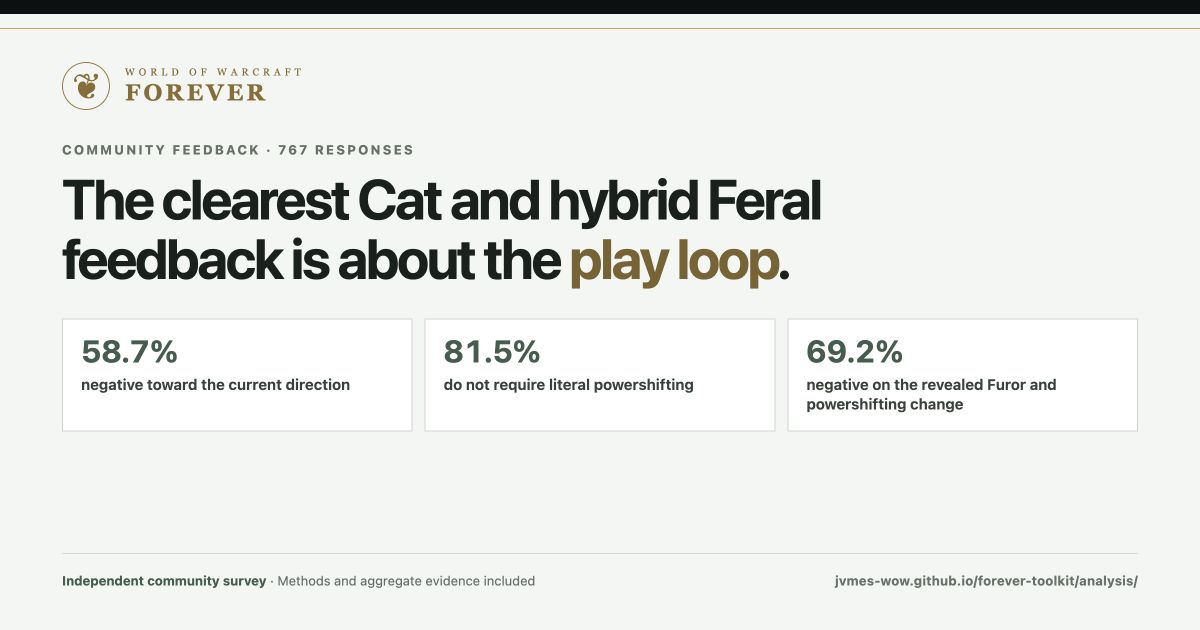
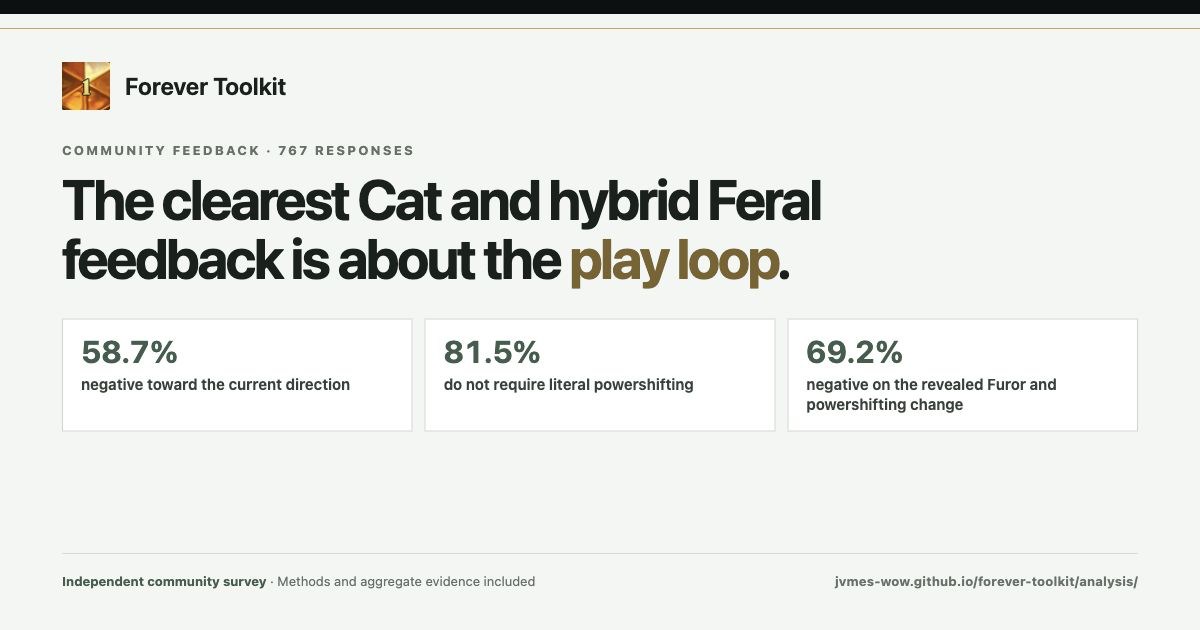
Simplify home and unify Forever Toolkit branding

diff --git a/home.css b/home.css
@@ -1,10 +1,7 @@
-:root{color-scheme:dark;font-family:system-ui,-apple-system,BlinkMacSystemFont,"Segoe UI",sans-serif;color:#e9eddf;background:#0b1010;--gold:#d8b875;--muted:#a5b0a5;--line:#ffffff18}
-*{box-sizing:border-box}body{margin:0}a{color:inherit}a:focus-visible{outline:3px solid #e2c584;outline-offset:5px}.skip-link{position:absolute;top:-100px;left:16px;z-index:10;background:#e2c584;color:#101810;padding:12px}.skip-link:focus{top:12px}
-.topbar{min-height:78px;max-width:1340px;margin:auto;padding:0 40px;display:flex;align-items:center;gap:40px;border-bottom:1px solid var(--line)}.brand{display:flex;align-items:center;gap:11px;color:var(--gold);text-decoration:none;flex-shrink:0}.crest{width:38px;height:38px;border:1px solid #9c8049;border-radius:50%;display:grid;place-items:center;font:30px Georgia,serif}.brand small,.brand strong{display:block;font-family:Georgia,serif}.brand small{font-size:8px;letter-spacing:1.6px}.brand strong{font-size:20px;letter-spacing:2px}.topbar nav{display:flex;gap:22px;align-items:center}.topbar nav a{display:flex;align-items:center;min-height:78px;color:var(--muted);text-decoration:none;font-size:13px;border-bottom:2px solid transparent}.topbar nav a:hover,.topbar nav a[aria-current]{color:#f0dfad;border-color:var(--gold)}.byline{margin-left:auto;color:#87958b;font-size:11px}.byline strong{color:#bfc8b9;font-weight:500}
-main{max-width:1200px;margin:auto;padding:0 40px}.hero{padding:80px 0 70px;position:relative}.eyebrow{margin:0 0 21px;color:var(--gold);font-size:10px;letter-spacing:2.2px;font-weight:650}.hero h1{margin:0;font:400 clamp(42px,5.4vw,68px)/1.08 Georgia,serif;letter-spacing:-1.6px}.hero h1 em{color:var(--gold);font-style:normal}.intro{max-width:540px;font-size:16px;line-height:1.75;color:var(--muted);margin:24px 0 28px}.primary-link{display:inline-flex;align-items:center;gap:28px;background:#dfc48b;color:#111a13;padding:14px 19px;border-radius:4px;text-decoration:none;font-size:13px;font-weight:700}.primary-link:hover{background:#efdaaa}.hero-note{color:#839486;font-size:11px;margin-left:20px}
-.section-heading{display:flex;align-items:baseline;justify-content:space-between;gap:16px;margin-bottom:18px}.section-heading h2{margin:0;font:400 23px Georgia,serif}.section-heading>span{color:#89998d;font-size:11px}.tool-grid{display:grid;grid-template-columns:repeat(3,minmax(0,1fr));gap:16px}.tool-card{display:flex;flex-direction:column;padding:25px;background:#101a15;border:1px solid #314136;border-radius:6px;text-decoration:none;transition:background .15s,border-color .15s}.tool-card:hover{background:#17251d;border-color:#a98b51}.card-top{display:flex;align-items:center;justify-content:space-between;gap:14px;margin-bottom:23px}.card-top img{border-radius:7px;border:1px solid #7a704c}.card-number{color:#8f9d8f;font-size:9px;letter-spacing:1.2px}.tool-card h3{margin:0;font:400 25px Georgia,serif;color:#ebe6d0}.tool-card p{font-size:13px;line-height:1.75;color:var(--muted);margin:12px 0 27px}.card-action{margin-top:auto;display:flex;justify-content:space-between;color:var(--gold);font-size:12px;font-weight:600}
-.research{display:grid;grid-template-columns:1.45fr 1fr;border-top:1px solid var(--line);border-bottom:1px solid var(--line);margin-top:52px;padding:42px 0;gap:70px}.research .eyebrow{margin-bottom:16px}.research h2{font:400 36px/1.14 Georgia,serif;margin:0;color:#ebe6d0;letter-spacing:-.4px}.research-copy>p:not(.eyebrow){color:var(--muted);font-size:13px;line-height:1.8;max-width:520px;margin:18px 0}.text-link{display:inline-flex;gap:22px;color:var(--gold);font-size:13px;text-underline-offset:5px}.survey-snapshot{border-left:1px solid var(--line);padding:10px 0 0 60px;display:flex;flex-direction:column;justify-content:center}.snapshot-label{font-size:9px;letter-spacing:1.6px;color:#92a696}.survey-snapshot strong{font:400 74px/1.1 Georgia,serif;color:#b4cda5;margin:16px 0 4px}.survey-snapshot>span:not(.snapshot-label){color:#d1d8c7;font-size:13px}.snapshot-rule{height:1px;background:#304836;margin-top:23px;max-width:230px}.survey-snapshot p{font-size:11px;line-height:1.8;color:#98a894}
-.in-development{display:flex;align-items:flex-start;gap:18px;padding:30px 0 46px}.development-mark{font-size:30px;line-height:1;color:#97aa92}.development-title{display:flex;align-items:center;gap:14px;flex-wrap:wrap}.development-title h2{font:400 20px Georgia,serif;margin:0}.status-badge{border:1px solid #6e67494d;background:#aaa0710a;color:#c5b68a;font-size:10px;border-radius:4px;padding:4px 7px}.in-development p{font-size:12px;line-height:1.7;color:#94a18f;margin:9px 0 0}.page-foot{max-width:1340px;margin:auto;padding:24px 40px 30px;border-top:1px solid var(--line);display:flex;justify-content:space-between;gap:20px;font-size:10px;line-height:1.7;color:#88968c}
-@media(max-width:1000px){.byline{display:none}.topbar{gap:32px}.tool-card{padding:20px}.card-number{font-size:8px}.research{gap:30px}.survey-snapshot{padding-left:35px}}
-@media(max-width:700px){.topbar{padding:17px 22px 0;gap:12px;flex-wrap:wrap}.topbar nav{width:100%;justify-content:space-between;gap:12px}.topbar nav a{min-height:45px;font-size:12px}main{padding:0 22px}.hero{padding:48px 0 44px}.hero h1{font-size:46px}.hero-note{display:block;margin:16px 0 0}.intro{font-size:14px;max-width:420px}.section-heading{align-items:flex-start;flex-direction:column;gap:8px}.tool-grid{grid-template-columns:1fr;gap:12px}.tool-card{padding:23px}.card-top{margin-bottom:17px}.card-number{font-size:9px}.tool-card p{margin:10px 0 21px}.research{margin-top:38px;grid-template-columns:1fr;gap:28px;padding:32px 0}.research h2{font-size:32px}.survey-snapshot{border-left:0;border-top:1px solid var(--line);padding:22px 0 0}.survey-snapshot strong{font-size:60px;margin-top:13px}.snapshot-rule{display:none}.survey-snapshot p{margin:12px 0 0}.in-development{padding:26px 0 32px}.development-title{gap:10px}.page-foot{padding:22px;flex-direction:column;gap:7px}}
-@media(prefers-reduced-motion:reduce){.tool-card{transition:none}}
+:root{color-scheme:dark;font-family:system-ui,-apple-system,BlinkMacSystemFont,"Segoe UI",sans-serif;color:#e8edf4;background:#0c1017;--accent:#eea45e;--muted:#94a2b6;--line:#ffffff12}
+*{box-sizing:border-box}body{margin:0;min-height:100vh}a{color:inherit}a:focus-visible{outline:2px solid var(--accent);outline-offset:5px}.skip-link{position:absolute;top:-100px;left:16px;z-index:10;background:var(--accent);color:#0c1017;padding:12px}.skip-link:focus{top:12px}
+.topbar{min-height:72px;padding:0 max(24px,calc((100vw - 1100px)/2));display:flex;align-items:center;gap:48px;background:#11161e;border-bottom:1px solid var(--line)}.topbar nav{display:flex;gap:24px;margin-left:auto}.topbar nav a{display:flex;align-items:center;min-height:72px;color:#a5afbe;text-decoration:none;font-size:13px;border-bottom:2px solid transparent}.topbar nav a:hover,.topbar nav a[aria-current]{color:#f6b57a;border-color:var(--accent)}
+main{max-width:1148px;margin:0 auto;padding:48px 24px 0}h1{font-size:24px;font-weight:650;letter-spacing:-.5px;margin:0 0 22px}.tool-grid{display:grid;grid-template-columns:repeat(2,minmax(0,1fr));gap:16px}.tool-card{display:flex;align-items:center;gap:18px;min-height:132px;padding:26px;background:#151b25;border:1px solid #ffffff14;border-radius:8px;text-decoration:none}.tool-card:hover{background:#1c2634;border-color:#eea45e80}.tool-card>img{border-radius:6px;border:1px solid #4b5565;flex-shrink:0}.tool-card>div{min-width:0}.tool-card h2{font-size:17px;font-weight:600;margin:0 0 8px}.tool-card p{font-size:12px;line-height:1.6;color:var(--muted);margin:0}.arrow{margin-left:auto;color:#eea45e;font-size:19px;padding-left:8px}
+.sim-status{display:flex;align-items:center;gap:18px;margin:24px 0 48px;padding:18px 22px;border:1px solid #ffffff12;border-radius:6px;background:#11161e}.sim-status h2{font-size:14px;font-weight:550;margin:0;color:#c3cbd7}.sim-status span{color:#dca76e;font-size:11px}.page-foot{max-width:1100px;margin:0 auto;padding:20px 0;border-top:1px solid var(--line);display:flex;justify-content:space-between;gap:16px;color:#8293a9;font-size:10px}
+@media(max-width:800px){.topbar{padding:15px 24px 0;flex-wrap:wrap;gap:8px}.topbar nav{width:100%;margin:0;justify-content:space-between;gap:12px}.topbar nav a{min-height:45px;font-size:12px}.page-foot{margin:0 24px}}
+@media(max-width:700px){main{padding:30px 20px 0}h1{font-size:22px;margin-bottom:18px}.tool-grid{grid-template-columns:1fr;gap:12px}.tool-card{min-height:116px;padding:20px;gap:15px}.tool-card h2{font-size:16px}.arrow{padding:0}.sim-status{margin:20px 0 32px;padding:18px;flex-wrap:wrap;gap:8px 16px}.page-foot{margin:0 20px;flex-wrap:wrap;gap:8px}}

diff --git a/index.html b/index.html
@@ -3,65 +3,38 @@
 <head>
   <meta charset="utf-8">
   <meta name="viewport" content="width=device-width,initial-scale=1">
-  <title>WoW Forever Toolkit</title>
-  <meta name="description" content="Talent builds, Druid abilities, raid planning, and Feral community research for World of Warcraft: Forever. A community project by JVMES.">
+  <title>Forever Toolkit</title>
+  <meta name="description" content="WoW Forever talent calculators, Druid abilities, raid planner, and Feral survey analysis.">
   <link rel="canonical" href="https://jvmes-wow.github.io/forever-toolkit/">
   <meta property="og:type" content="website">
-  <meta property="og:site_name" content="WoW Forever Toolkit">
-  <meta property="og:title" content="WoW Forever Toolkit">
-  <meta property="og:description" content="Plan a build, put a raid together, and explore the Feral community's feedback.">
+  <meta property="og:site_name" content="Forever Toolkit">
+  <meta property="og:title" content="Forever Toolkit">
+  <meta property="og:description" content="Talent calculators, Druid abilities, raid planner, and Feral survey analysis.">
   <meta property="og:url" content="https://jvmes-wow.github.io/forever-toolkit/">
+  <meta property="og:image" content="https://jvmes-wow.github.io/forever-toolkit/toolkit-logo.png">
   <meta name="twitter:card" content="summary">
-  <meta name="theme-color" content="#0b1010">
+  <meta name="theme-color" content="#11161e">
+  <link rel="icon" type="image/png" href="toolkit-logo.png">
   <link rel="stylesheet" href="home.css">
+  <link rel="stylesheet" href="site-brand.css">
   <script src="home.js"></script>
 </head>
 <body>
   <a class="skip-link" href="#main">Skip to content</a>
   <header class="topbar">
-    <a class="brand" href="./" aria-label="Forever Toolkit home"><span class="crest" aria-hidden="true">❦</span><span><small>WORLD OF WARCRAFT</small><strong>FOREVER</strong></span></a>
+    <a class="brand toolkit-brand" href="./" aria-label="Forever Toolkit home"><img src="toolkit-logo.png" width="40" height="40" alt=""><strong>Forever Toolkit</strong></a>
     <nav aria-label="Main navigation"><a href="./" aria-current="page">Home</a><a href="talents.html">Talents</a><a href="abilities.html">Abilities</a><a href="raid.html">Raid</a><a href="analysis/">Analysis</a></nav>
-    <span class="byline">A community project by <strong>JVMES</strong></span>
   </header>
   <main id="main">
-    <section class="hero" aria-labelledby="home-title">
-      <p class="eyebrow">THE FOREVER TOOLKIT</p>
-      <h1 id="home-title">Plan your build.<br><em>Know your options.</em></h1>
-      <p class="intro">A home for character tools, raid planning, and community research in World of Warcraft: Forever.</p>
-      <a class="primary-link" href="talents.html">Build your talents <span aria-hidden="true">↗</span></a>
-      <span class="hero-note">Made for players. Built by JVMES.</span>
-    </section>
-
-    <section class="tools" aria-labelledby="tools-title">
-      <div class="section-heading"><h2 id="tools-title">The tools</h2><span>Open in your browser. No account needed.</span></div>
-      <div class="tool-grid">
-        <a class="tool-card" href="talents.html">
-          <div class="card-top"><img src="class-icons/druid.jpg" width="46" height="46" alt=""><span class="card-number">01 / CHARACTER</span></div>
-          <h3>Talent calculator</h3><p>Find your build across all nine classes. Move points, save your choices, and share a build.</p>
-          <span class="card-action">Plan a build <span aria-hidden="true">↗</span></span>
-        </a>
-        <a class="tool-card" href="abilities.html">
-          <div class="card-top"><img src="icons/druid/feral-combat.jpg" width="46" height="46" alt=""><span class="card-number">02 / SPELLBOOK</span></div>
-          <h3>Druid abilities</h3><p>Explore spells, ranks, and unlock levels. See what changes as your Druid grows.</p>
-          <span class="card-action">Open the spellbook <span aria-hidden="true">↗</span></span>
-        </a>
-        <a class="tool-card" href="raid.html">
-          <div class="card-top"><img src="class-icons/warrior.jpg" width="46" height="46" alt=""><span class="card-number">03 / GROUPS</span></div>
-          <h3>Raid planner</h3><p>Build your roster and check buff coverage, party effects, and the gaps worth filling.</p>
-          <span class="card-action">Put a raid together <span aria-hidden="true">↗</span></span>
-        </a>
-      </div>
-    </section>
-
-    <section class="research" aria-labelledby="research-title">
-      <div class="research-copy"><p class="eyebrow">FROM THE COMMUNITY</p><h2 id="research-title">What makes Feral<br>feel like Feral?</h2><p>A closer look at the play loop, powershifting, and what players want to preserve. The original survey report, with charts, methods, and aggregate downloads.</p><a class="text-link" href="analysis/">Read the Feral analysis <span aria-hidden="true">↗</span></a></div>
-      <div class="survey-snapshot"><span class="snapshot-label">THE SEPTEMBER SNAPSHOT</span><strong>767</strong><span>community responses</span><div class="snapshot-rule"></div><p>September 20–21, 2026<br>A self-selected sample, not a vote by all players.</p></div>
-    </section>
-
-    <section class="in-development" aria-labelledby="sim-title">
-      <div class="development-mark" aria-hidden="true">⌁</div><div><div class="development-title"><h2 id="sim-title">Feral simulator</h2><span class="status-badge">Private · Work in progress</span></div><p>An experimental damage and rotation simulator. Still being developed and validated; no public link is provided here.</p></div>
-    </section>
+    <h1>Tools</h1>
+    <div class="tool-grid">
+      <a class="tool-card" href="talents.html"><img src="class-icons/druid.jpg" width="44" height="44" alt=""><div><h2>Talent calculator</h2><p>Builds for all nine classes.</p></div><span class="arrow" aria-hidden="true">↗</span></a>
+      <a class="tool-card" href="abilities.html"><img src="icons/druid/feral-combat.jpg" width="44" height="44" alt=""><div><h2>Druid abilities</h2><p>Spells and ranks by level.</p></div><span class="arrow" aria-hidden="true">↗</span></a>
+      <a class="tool-card" href="raid.html"><img src="class-icons/warrior.jpg" width="44" height="44" alt=""><div><h2>Raid planner</h2><p>Rosters, buffs, and debuffs.</p></div><span class="arrow" aria-hidden="true">↗</span></a>
+      <a class="tool-card" href="analysis/"><img src="ability-icons/cat-form.jpg" width="44" height="44" alt=""><div><h2>Feral analysis</h2><p>767 survey responses · September 20–21, 2026</p></div><span class="arrow" aria-hidden="true">↗</span></a>
+    </div>
+    <section class="sim-status" aria-labelledby="sim-title"><h2 id="sim-title">Feral simulator</h2><span>Private · Work in progress</span></section>
   </main>
-  <footer class="page-foot"><span>WoW Forever Toolkit · JVMES</span><span>An independent community project. Not affiliated with Blizzard Entertainment.</span></footer>
+  <footer class="page-foot"><span>JVMES</span><span>Not affiliated with Blizzard Entertainment.</span></footer>
 </body>
 </html>

diff --git a/analysis/methodology.html b/analysis/methodology.html
@@ -1,8 +1,8 @@
 <!doctype html>
 <html lang="en">
-<head><meta charset="utf-8"><meta name="viewport" content="width=device-width,initial-scale=1"><meta name="description" content="Methods, limitations, text analysis, and aggregate downloads for the Forever Feral community survey."><title>Methods &amp; Downloads · Forever Feral Feedback</title><link rel="stylesheet" href="report.css"></head>
+<head><meta charset="utf-8"><meta name="viewport" content="width=device-width,initial-scale=1"><meta name="description" content="Methods, limitations, text analysis, and aggregate downloads for the Forever Feral community survey."><title>Analysis Methods · Forever Toolkit</title><link rel="stylesheet" href="report.css"><link rel="stylesheet" href="../site-brand.css"><link rel="icon" type="image/png" href="../toolkit-logo.png"></head>
 <body>
-<header class="topbar"><a class="brand" href="../"><span class="crest" aria-hidden="true">❦</span><span><small>WORLD OF WARCRAFT</small><strong>FOREVER</strong></span></a><nav aria-label="Main navigation"><a href="../">Home</a><a href="../talents.html">Talents</a><a href="../abilities.html">Abilities</a><a href="../raid.html">Raid</a><a href="./">Analysis</a></nav><a class="method-link active" href="methodology.html" aria-current="page">Methods &amp; downloads</a></header>
+<header class="topbar"><a class="brand toolkit-brand" href="../" aria-label="Forever Toolkit home"><img src="../toolkit-logo.png" width="38" height="38" alt=""><strong>Forever Toolkit</strong></a><nav aria-label="Main navigation"><a href="../">Home</a><a href="../talents.html">Talents</a><a href="../abilities.html">Abilities</a><a href="../raid.html">Raid</a><a href="./">Analysis</a></nav><a class="method-link active" href="methodology.html" aria-current="page">Methods &amp; downloads</a></header>
 <main class="methods-main">
   <section class="methods-hero"><p class="eyebrow">TRANSPARENCY WITHOUT THE DETOUR</p><h1>Methods, limitations &amp; downloads</h1><p class="deck">The public evidence, survey instrument, analysis rules, and aggregate outputs live here, separate from the main community story.</p><a class="ghost-button" href="./">← Back to the report</a></section>
   <section class="method-section panel"><h2>Source, timing, and privacy boundary</h2><ul><li><strong>Project author:</strong> JVMES, a participant in the referenced Druid Classic Discord discussion.</li><li><strong>Authoritative source:</strong> a private export of the survey response dataset maintained by the project author. The live response sheet is not publicly linked. Verification materials may be considered upon request, subject to respondent privacy and consent; raw respondent data are not publicly distributed.</li><li><strong>Collection period:</strong> September 20, 2026 at 10:01 AM through September 21, 2026 at 6:55 PM America/Chicago.</li><li><strong>Retrieved:</strong> September 21, 2026 at 6:57 PM CDT.</li><li><strong>Snapshot:</strong> 767 populated timestamp rows × 45 columns.</li><li><strong>Snapshot fingerprint (SHA-256):</strong> <code>92d6d4f690e1d638106f8e0ff5abc9b462ece246b87ca31fa06cb8cbbaa127ea</code>. This can confirm that a rerun used the same private export. It does not authenticate the collection process or reveal the responses.</li><li><strong>Restored report and aggregate outputs:</strong> <a href="https://github.com/JVMES-WOW/forever-toolkit/tree/main/analysis">public report files on GitHub</a>. The original analysis code remains in the private project archive; it is not included in this restored site.</li><li><strong>Privacy:</strong> raw responses and local snapshots are gitignored. Only aggregates, anonymous model weights, and permission-checked excerpts are public.</li></ul><p><strong>Design reference boundary:</strong> the survey asked about the “currently revealed” design available during the collection window; it did not collect a patch or build identifier. Results should be read as reactions to the public and test-build state respondents encountered on those dates, not to later revisions.</p><p>The local project also contains DiscordKit exports of the Druid Classic channels <strong>#forever-general</strong>, <strong>#forever-feral-dps</strong>, and <strong>#forever-feral-tank</strong>, covering discussion from September 12–20, 2026. A <a href="https://www.reddit.com/r/classicwow/comments/1wljuy6/">public r/classicwow announcement</a> documents how the survey was framed and circulated. These materials establish the author’s perspective and project context only. They are not part of the analyzed corpus, quoted, or counted.</p></section>

diff --git a/abilities.html b/abilities.html
@@ -4,12 +4,12 @@
   <meta charset="utf-8">
   <meta name="viewport" content="width=device-width,initial-scale=1">
   <meta name="color-scheme" content="dark">
-  <title>Druid Abilities · Forever</title>
+  <title>Druid Abilities · Forever Toolkit</title>
   <meta name="description" content="Browse Druid abilities and ranks by required level for WoW Forever.">
   <link rel="canonical" href="https://jvmes-wow.github.io/forever-toolkit/abilities.html">
   <meta property="og:type" content="website">
-  <meta property="og:site_name" content="WoW Forever Druid Calculator">
-  <meta property="og:title" content="Druid Abilities by Level · WoW Forever">
+  <meta property="og:site_name" content="Forever Toolkit">
+  <meta property="og:title" content="Druid Abilities by Level · Forever Toolkit">
   <meta property="og:description" content="Browse Druid abilities and ranks by required level for WoW Forever.">
   <meta property="og:url" content="https://jvmes-wow.github.io/forever-toolkit/abilities.html">
   <meta property="og:image" content="https://jvmes-wow.github.io/forever-toolkit/abilities-og.png">
@@ -19,7 +19,7 @@
   <meta property="og:image:height" content="630">
   <meta property="og:image:alt" content="Druid Abilities by Level for World of Warcraft Forever">
   <meta name="twitter:card" content="summary_large_image">
-  <meta name="twitter:title" content="Druid Abilities by Level · WoW Forever">
+  <meta name="twitter:title" content="Druid Abilities by Level · Forever Toolkit">
   <meta name="twitter:description" content="Browse Druid abilities and ranks by required level for WoW Forever.">
   <meta name="twitter:image" content="https://jvmes-wow.github.io/forever-toolkit/abilities-og.png">
   <meta name="twitter:image:alt" content="Druid Abilities by Level for World of Warcraft Forever">
@@ -34,12 +34,14 @@
     .tooltip-details{display:grid;grid-template-columns:1fr 1fr;gap:7px 14px;margin:18px 0 14px}.tooltip-details span{font-size:.77rem;border-bottom:1px solid #ffffff12;padding-bottom:7px}
     .tooltip-description{margin:0;color:#e8dfb7;font-size:.88rem;line-height:1.58}
   </style>
+  <link rel="stylesheet" href="site-brand.css">
+  <link rel="icon" type="image/png" href="toolkit-logo.png">
 </head>
 <body>
   <header class="topbar">
-    <a class="brand" href="./" aria-label="Forever Toolkit home">
-      <span class="crest" aria-hidden="true">☾</span>
-      <span><small>WORLD OF WARCRAFT</small><strong>FOREVER</strong></span>
+    <a class="brand toolkit-brand" href="./" aria-label="Forever Toolkit home">
+      <img src="toolkit-logo.png" width="38" height="38" alt="">
+      <strong>Forever Toolkit</strong>
     </a>
     <nav aria-label="Main navigation">
       <a href="./">Home</a>

diff --git a/analysis/index.html b/analysis/index.html
@@ -6,8 +6,8 @@
   <meta name="description" content="What 767 engaged Feral players like, dislike, and want changed about the currently revealed Forever design.">
   <link rel="canonical" href="https://jvmes-wow.github.io/forever-toolkit/analysis/">
   <meta property="og:type" content="article">
-  <meta property="og:site_name" content="WoW Forever Druid">
-  <meta property="og:title" content="Forever Feral Community Feedback">
+  <meta property="og:site_name" content="Forever Toolkit">
+  <meta property="og:title" content="Feral Community Analysis · Forever Toolkit">
   <meta property="og:description" content="767 engaged players on Cat and hybrid Feral: the play loop, resource decisions, shapeshifting, and design directions worth testing.">
   <meta property="og:url" content="https://jvmes-wow.github.io/forever-toolkit/analysis/">
   <meta property="og:image" content="https://jvmes-wow.github.io/forever-toolkit/analysis/og-report.png">
@@ -17,16 +17,18 @@
   <meta property="og:image:height" content="630">
   <meta property="og:image:alt" content="Forever Feral community survey summary showing the three headline findings.">
   <meta name="twitter:card" content="summary_large_image">
-  <meta name="twitter:title" content="Forever Feral Community Feedback">
+  <meta name="twitter:title" content="Feral Community Analysis · Forever Toolkit">
   <meta name="twitter:description" content="767 engaged players on Cat and hybrid Feral: the play loop, resource decisions, shapeshifting, and design directions worth testing.">
   <meta name="twitter:image" content="https://jvmes-wow.github.io/forever-toolkit/analysis/og-report.png">
   <meta name="twitter:image:alt" content="Forever Feral community survey summary showing the three headline findings.">
-  <title>Forever Feral Community Feedback</title>
+  <title>Feral Community Analysis · Forever Toolkit</title>
   <link rel="stylesheet" href="report.css">
+  <link rel="stylesheet" href="../site-brand.css">
+  <link rel="icon" type="image/png" href="../toolkit-logo.png">
 </head>
 <body>
 <header class="topbar">
-  <a class="brand" href="../"><span class="crest" aria-hidden="true">❦</span><span><small>WORLD OF WARCRAFT</small><strong>FOREVER</strong></span></a>
+  <a class="brand toolkit-brand" href="../" aria-label="Forever Toolkit home"><img src="../toolkit-logo.png" width="38" height="38" alt=""><strong>Forever Toolkit</strong></a>
   <nav aria-label="Main navigation"><a href="../">Home</a><a href="../talents.html">Talents</a><a href="../abilities.html">Abilities</a><a href="../raid.html">Raid</a><a class="active" href="./" aria-current="page">Analysis</a></nav>
   <a class="method-link" href="methodology.html">Methods &amp; downloads</a>
 </header>

diff --git a/raid.html b/raid.html
@@ -4,11 +4,11 @@
   <meta charset="utf-8">
   <meta name="viewport" content="width=device-width,initial-scale=1">
   <meta name="color-scheme" content="dark">
-  <title>Raid Roster · WoW Forever</title>
+  <title>Raid Planner · Forever Toolkit</title>
   <meta name="description" content="WoW Forever raid roster, buffs, and debuffs.">
   <meta property="og:type" content="website">
-  <meta property="og:site_name" content="WoW Forever Raid Planner">
-  <meta property="og:title" content="WoW Forever — Raid Planner">
+  <meta property="og:site_name" content="Forever Toolkit">
+  <meta property="og:title" content="Raid Planner · Forever Toolkit">
   <meta property="og:description" content="Build 5-, 10-, 20-, and 40-player compositions and track buffs, debuffs, Blessings, auras, totems, and camp buffs.">
   <meta property="og:url" content="https://jvmes-wow.github.io/forever-toolkit/raid.html">
   <meta property="og:image" content="https://jvmes-wow.github.io/forever-toolkit/raid-og.png">
@@ -18,7 +18,7 @@
   <meta property="og:image:height" content="630">
   <meta property="og:image:alt" content="A five-player WoW Forever party in the Raid Planner with class specializations, camp buffs, and completed buff coverage.">
   <meta name="twitter:card" content="summary_large_image">
-  <meta name="twitter:title" content="WoW Forever — Raid Planner">
+  <meta name="twitter:title" content="Raid Planner · Forever Toolkit">
   <meta name="twitter:description" content="Build raid and dungeon compositions with detailed buff and debuff coverage.">
   <meta name="twitter:image" content="https://jvmes-wow.github.io/forever-toolkit/raid-og.png">
   <meta name="twitter:image:alt" content="A five-player WoW Forever party in the Raid Planner with class specializations, camp buffs, and completed buff coverage.">
@@ -128,10 +128,12 @@
     }
     @media(max-width:600px){.camp-assignment-options{grid-template-columns:1fr}}
   </style>
+  <link rel="stylesheet" href="site-brand.css">
+  <link rel="icon" type="image/png" href="toolkit-logo.png">
 </head>
 <body>
   <header class="topbar">
-    <a class="brand" href="./" aria-label="Forever Toolkit home"><span class="crest" aria-hidden="true">❦</span><span><small>WORLD OF WARCRAFT</small><strong>FOREVER</strong></span></a>
+    <a class="brand toolkit-brand" href="./" aria-label="Forever Toolkit home"><img src="toolkit-logo.png" width="38" height="38" alt=""><strong>Forever Toolkit</strong></a>
     <nav aria-label="Main navigation"><a href="./">Home</a><a href="talents.html">Talents</a><a href="abilities.html">Abilities</a><a class="active" href="raid.html" aria-current="page">Raid</a><a href="analysis/">Analysis</a></nav>
   </header>
   <main>

diff --git a/analysis/social-preview.html b/analysis/social-preview.html
@@ -3,14 +3,14 @@
 <head>
   <meta charset="utf-8">
   <meta name="viewport" content="width=1200,initial-scale=1">
-  <title>Forever Feral Community Feedback social preview</title>
+  <title>Feral Community Analysis · Forever Toolkit</title>
   <style>
     *{box-sizing:border-box}html,body{width:1200px;height:630px;margin:0;overflow:hidden}body{background:#f4f6f3;color:#18201c;font-family:Inter,ui-sans-serif,-apple-system,BlinkMacSystemFont,"Segoe UI",sans-serif}.frame{width:1200px;height:630px;padding:48px 62px 42px;border-top:14px solid #0b1010;display:flex;flex-direction:column;position:relative}.frame:after{content:"";position:absolute;inset:14px 0 auto;height:1px;background:#c7a85f}.brand{display:flex;align-items:center;gap:15px;color:#8a6d30}.crest{width:48px;height:48px;border:1px solid #9a7b3d;border-radius:50%;display:grid;place-items:center;font:34px Georgia,serif}.brand-copy small,.brand-copy strong{display:block;font-family:Georgia,serif}.brand-copy small{font-size:10px;letter-spacing:4px}.brand-copy strong{font-size:23px;letter-spacing:3px;margin-top:2px}.kicker{margin:32px 0 12px;color:#667166;font-size:13px;font-weight:750;letter-spacing:2.2px;text-transform:uppercase}.title{margin:0;max-width:930px;font-size:56px;line-height:1.06;letter-spacing:-2.4px;font-weight:680}.title em{color:#7b632e;font-style:normal}.results{display:grid;grid-template-columns:repeat(3,1fr);gap:12px;margin-top:31px}.result{border:1px solid #cfd5d0;background:#fff;padding:16px 18px 17px}.result strong{display:block;color:#405d4d;font-size:31px;line-height:1;font-variant-numeric:tabular-nums}.result span{display:block;margin-top:8px;color:#36423b;font-size:15px;line-height:1.3;font-weight:650}.footer{margin-top:auto;padding-top:19px;border-top:1px solid #d6dbd7;display:flex;justify-content:space-between;align-items:center;color:#657068;font-size:13px}.footer b{color:#405d4d}.url{font-weight:700;letter-spacing:.2px}
   </style>
 </head>
 <body>
   <main class="frame">
-    <div class="brand"><span class="crest" aria-hidden="true">❦</span><span class="brand-copy"><small>WORLD OF WARCRAFT</small><strong>FOREVER</strong></span></div>
+    <div class="brand"><img src="../toolkit-logo.png" width="48" height="48" alt=""><strong style="color:#18201c;font:650 24px system-ui,sans-serif">Forever Toolkit</strong></div>
     <p class="kicker">Community feedback · 767 responses</p>
     <h1 class="title">The clearest Cat and hybrid Feral feedback is about the <em>play loop</em>.</h1>
     <section class="results" aria-label="Headline findings">

diff --git a/talents.html b/talents.html
@@ -3,12 +3,12 @@
   <head>
     <meta charset="UTF-8">
     <meta name="viewport" content="width=device-width,initial-scale=1.0">
-    <title>WoW Forever — Druid Talent Calculator</title>
+    <title>Druid Talent Calculator · Forever Toolkit</title>
     <meta name="description" content="Plan a 51-point WoW Forever Druid build across Balance, Feral Combat, and Restoration.">
     <link rel="canonical" href="https://jvmes-wow.github.io/forever-toolkit/talents.html">
     <meta property="og:type" content="website">
-    <meta property="og:site_name" content="WoW Forever Druid Calculator">
-    <meta property="og:title" content="WoW Forever — Druid Talent Calculator">
+    <meta property="og:site_name" content="Forever Toolkit">
+    <meta property="og:title" content="Druid Talent Calculator · Forever Toolkit">
     <meta property="og:description" content="Plan a 51-point WoW Forever Druid build across Balance, Feral Combat, and Restoration.">
     <meta property="og:url" content="https://jvmes-wow.github.io/forever-toolkit/talents.html">
     <meta property="og:image" content="https://jvmes-wow.github.io/forever-toolkit/og.png">
@@ -18,12 +18,14 @@
     <meta property="og:image:height" content="630">
     <meta property="og:image:alt" content="WoW Forever Druid Talent Calculator, showing the Balance, Feral Combat, and Restoration trees with their game icons.">
     <meta name="twitter:card" content="summary_large_image">
-    <meta name="twitter:title" content="WoW Forever — Druid Talent Calculator">
+    <meta name="twitter:title" content="Druid Talent Calculator · Forever Toolkit">
     <meta name="twitter:description" content="Plan a 51-point WoW Forever Druid build across Balance, Feral Combat, and Restoration.">
     <meta name="twitter:image" content="https://jvmes-wow.github.io/forever-toolkit/og.png">
     <meta name="twitter:image:alt" content="WoW Forever Druid Talent Calculator, showing the Balance, Feral Combat, and Restoration trees with their game icons.">
     <meta name="theme-color" content="#66cea0">
     <link rel="stylesheet" href="styles.css">
+    <link rel="stylesheet" href="site-brand.css">
+    <link rel="icon" type="image/png" href="toolkit-logo.png">
   </head>
   <body>
     <div id="root"><p>Loading Druid talents…</p></div>

diff --git a/app.js b/app.js
@@ -14,7 +14,7 @@
   let initialMessage = '';
   const sectionNav = '<nav class="section-nav" aria-label="Main navigation"><a href="./">Home</a><span aria-current="page">Talents</span><a href="abilities.html">Abilities</a><a href="raid.html">Raid</a><a href="analysis/">Analysis</a></nav>';
   const classOptions = Object.values(classes).map(item => `<option value="${item.gameClass}" ${item.gameClass === data.gameClass ? 'selected' : ''}>${item.name}</option>`).join('');
-  document.title = `WoW Forever — ${data.name} Talents`;
+  document.title = `${data.name} Talents · Forever Toolkit`;
   try {
     const isShared = /^#FF[234]\./.test(location.hash);
     const code = isShared ? location.hash.slice(1) : localStorage.getItem(storageKey);
@@ -38,7 +38,7 @@
   }
 
   $('#root').innerHTML = `<main>
-    <header><div class="brand"><span class="crest" aria-hidden="true">❦</span><div><small>WORLD OF WARCRAFT</small><strong>FOREVER</strong></div></div>${sectionNav}<label class="class-picker">Class <select id="class-picker">${classOptions}</select></label><button class="ghost" id="share">Share build ↗</button></header>
+    <header><a class="brand toolkit-brand" href="./" aria-label="Forever Toolkit home"><img src="toolkit-logo.png" width="38" height="38" alt=""><strong>Forever Toolkit</strong></a>${sectionNav}<label class="class-picker">Class <select id="class-picker">${classOptions}</select></label><button class="ghost" id="share">Share build ↗</button></header>
     <h1 class="sr-only">${data.name} talent calculator</h1>
     <div class="calculator-bar"><div class="toolbar"><label class="search-label">Find a talent <input id="search" type="search" placeholder="Name or effect…" autocomplete="off"></label><span class="editing-hint">Click to add · Right-click to refund<br>Drag 1 point · Tap destination to repeat</span><button class="ghost" id="undo">Undo</button><button class="ghost" id="reset">Reset build</button></div><div class="points"><span>Talent points</span><b id="total"></b><div class="meter"><i id="meter"></i></div><small id="remaining"></small></div></div>
     <p id="status" role="status" aria-live="polite"></p>

diff --git a/feral-sim.html b/feral-sim.html
@@ -5,13 +5,15 @@
   <meta name="viewport" content="width=device-width,initial-scale=1">
   <meta name="color-scheme" content="dark">
   <meta name="robots" content="noindex, nofollow">
-  <title>Feral Damage Simulator · WoW Forever</title>
+  <title>Feral Simulator · Forever Toolkit</title>
   <meta name="description" content="Damage-first Monte Carlo Feral Druid simulator for WoW Forever.">
   <link rel="stylesheet" href="feral-sim.css">
+  <link rel="stylesheet" href="site-brand.css">
+  <link rel="icon" type="image/png" href="toolkit-logo.png">
 </head>
 <body class="feral-workbench">
   <header class="topbar">
-    <a class="brand" href="./"><span class="crest" aria-hidden="true">❦</span><span><small>WORLD OF WARCRAFT</small><strong>FOREVER</strong></span></a>
+    <a class="brand toolkit-brand" href="./" aria-label="Forever Toolkit home"><img src="toolkit-logo.png" width="38" height="38" alt=""><strong>Forever Toolkit</strong></a>
     <span class="app-title">FERAL SIMULATOR <small>EXPERIMENTAL</small></span><button id="display-open" type="button" class="settings-button">Settings</button><nav aria-label="Main navigation"><a href="./">Home</a><a href="talents.html">Talents</a><a href="abilities.html">Abilities</a><a href="raid.html">Raid</a></nav>
   </header>
 

diff --git a/site-brand.css b/site-brand.css
@@ -1,0 +1,9 @@
+/* Shared project identity. The Rank 1 artwork is the project's GitHub avatar. */
+.brand.toolkit-brand{display:flex;align-items:center;gap:11px;flex-shrink:0;text-decoration:none;color:#e8edf4}
+.brand.toolkit-brand img{display:block;width:38px;height:38px;object-fit:contain;border:1px solid #eea45e55;border-radius:7px;flex-shrink:0}
+.brand.toolkit-brand strong{display:block;font:650 17px/1.2 system-ui,-apple-system,BlinkMacSystemFont,"Segoe UI",sans-serif;letter-spacing:-.3px;white-space:nowrap;color:#e8edf4}
+.brand.toolkit-brand:focus-visible{outline:2px solid #eea45e;outline-offset:5px}
+.topbar:has(.toolkit-brand){background:#11161e;border-bottom-color:#ffffff12}
+.topbar:has(.toolkit-brand) nav a{color:#a5afbe}
+.topbar:has(.toolkit-brand) nav a:hover,.topbar:has(.toolkit-brand) nav a.active,.topbar:has(.toolkit-brand) nav a[aria-current]{color:#f6b57a;border-bottom-color:#eea45e}
+@media(max-width:760px){.brand.toolkit-brand{gap:9px}.brand.toolkit-brand img{width:34px;height:34px}.brand.toolkit-brand strong{font-size:16px}}

diff --git a/README.md b/README.md
@@ -1,4 +1,4 @@
-# WoW Forever Toolkit
+# Forever Toolkit
 
 A static, browser-based toolkit for planning characters and groups in **World of Warcraft: Forever**.
 
@@ -49,6 +49,8 @@ The site has no account system, analytics, or backend. Local drafts use browser 
 This repository contains the sanitized static site used by GitHub Pages. Private source captures, research notes, and authoring tools are excluded from publication.
 
 ## Data and artwork
+
+The Rank 1 logo is [JVMES-WOW’s public GitHub avatar](https://github.com/JVMES-WOW), bundled locally.
 
 - Current Forever talent data: [Sixty Upgrades](https://sixtyupgrades.com/forever/)
 - Spell data and Druid tooltips: [Forever Warcraft Database](https://forever.warcraftdb.com/)
